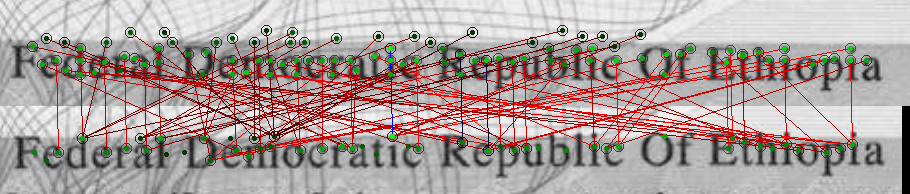
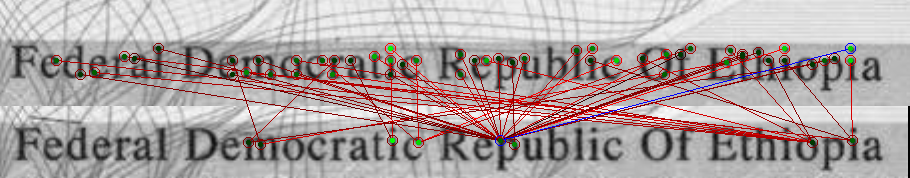
fix(getBrief): add minScore option

diff --git a/scripts/featureMatching/getBrief.ts b/scripts/featureMatching/getBrief.ts
@@ -9,6 +9,7 @@ import { getOrientedFastKeypoints } from '../../src/featureMatching/keypoints/ge
 export interface GetBriefOptions {
   windowSize?: number;
   bestKptRadius?: number;
+  minScore?: number;
 }
 
 /**
@@ -20,7 +21,7 @@ export interface GetBriefOptions {
  * @returns The Brief.
  */
 export function getBrief(image: Image, options: GetBriefOptions = {}): Brief {
-  const { windowSize = 15, bestKptRadius = 10 } = options;
+  const { windowSize = 15, bestKptRadius = 10, minScore } = options;
   const allSourceKeypoints = getOrientedFastKeypoints(image, {
     windowSize,
   });
@@ -29,5 +30,15 @@ export function getBrief(image: Image, options: GetBriefOptions = {}): Brief {
     bestKptRadius,
   );
 
-  return getBriefDescriptors(image, sourceKeypoints);
+  const brief = getBriefDescriptors(image, sourceKeypoints);
+  if (minScore) {
+    for (let i = 0; i < brief.keypoints.length; i++) {
+      if (brief.keypoints[i].score < minScore)
+        return {
+          keypoints: brief.keypoints.slice(0, i - 1),
+          descriptors: brief.descriptors.slice(0, i - 1),
+        };
+    }
+  }
+  return brief;
 }

diff --git a/scripts/featureMatching/featureMatchingTest.ts b/scripts/featureMatching/featureMatchingTest.ts
@@ -19,6 +19,7 @@ import { getMinMax } from '../../src/utils/getMinMax';
 const getBriefOptions = {
   windowSize: 31,
   bestKptRadius: 5,
+  minScore: 1500,
 };
 
 let source = readSync('../../test/img/featureMatching/crop1.png').convertColor(
@@ -30,10 +31,9 @@ source.level({
   inputMax: sourceExtremums.max[0],
   out: source,
 });
-console.log({ sourceExtremums });
 
 let destination = readSync(
-  '../../test/img/featureMatching/crop3.png',
+  '../../test/img/featureMatching/crop2.png',
 ).convertColor(ImageColorModel.GREY);
 const destinationExtremums = getMinMax(destination);
 destination.level({
@@ -58,6 +58,10 @@ console.log({
   descriptors: {
     sourceLength: sourceBrief.descriptors.length,
     destinationLength: destinationBrief.descriptors.length,
+  },
+  maxScore: {
+    source: sourceBrief.keypoints[0].score,
+    destination: destinationBrief.keypoints[0].score,
   },
 });
 

diff --git a/scripts/README.md b/scripts/README.md
@@ -6,7 +6,7 @@ Install `ts-node` with
 npm i -g ts-node
 ```
 
-Use the following command. The `--log-error` option is used to avoid some typing error.
+Use the following command. The `--transpileOnly` option is used to avoid some typing error.
 
 ```bash
 ts-node --log-error yourScript.ts
@@ -19,5 +19,5 @@ npm i -g nodemon
 ```
 
 ```bash
-nodemon --log-error yourScript.ts
+nodemon --transpileOnly yourScript.ts
 ```
